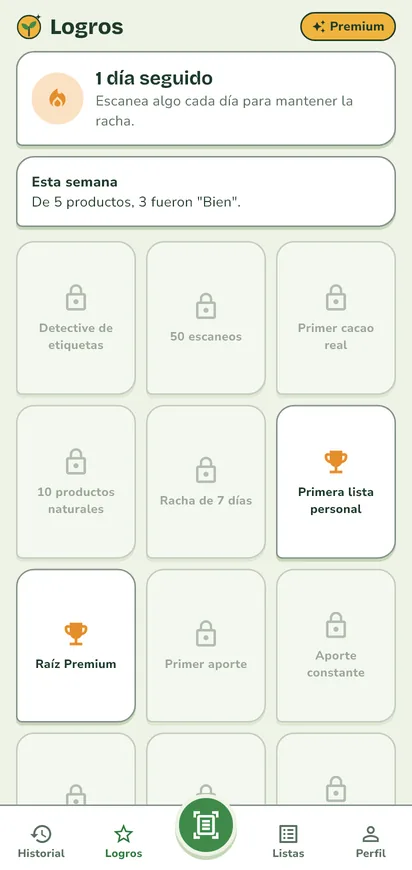
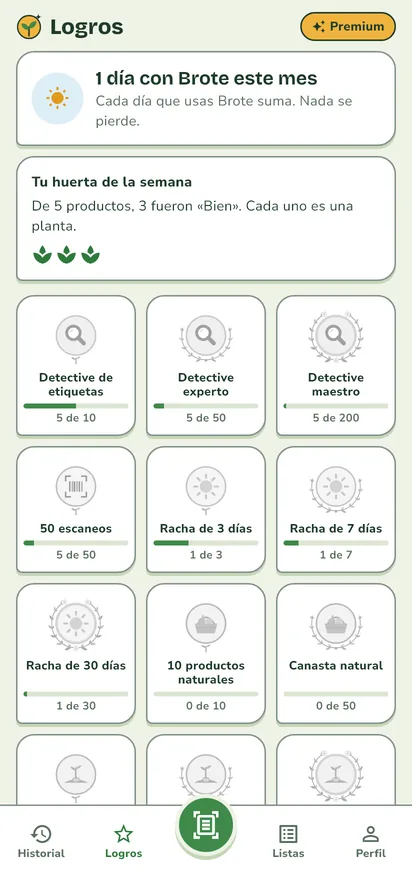
feat: logros sin culpa con insignias que crecen y se comparten (1.0.15)
- Logros por familias con niveles que son etapas de la planta (brote, hojas,
  flor); cada familia con emblema y color propios, dibujados en código.
- Compartir un logro: imagen 1080 px con la insignia, un «¿Sabías que…?» al
  azar (310 datos con fuente en assets/sabias_que.json), frase que promociona
  Brote y link al sitio. Compartir da la «Medalla de medallas», que no se
  comparte.
- Logros nuevos: siembra, curiosidad, mesa familiar y sorpresas (un solo
  ingrediente, libre de sellos).
- Días con Brote del mes como cifra principal; la racha perdona un día de
  descanso por semana. Bloqueados con avance. Huerta de la semana.
- Celebración proporcional e interruptor «Logros y celebraciones» en Perfil.
- «Tu año con Brote» en diciembre y enero.
- Ayuda y novedades actualizadas.

Changed region(s): [[0.0291, 0.1862, 0.9612, 0.931], [0.233, 0.0621, 0.8447, 0.1552], [0.0583, 0.0621, 0.2039, 0.1552]]

diff --git a/ayuda/home-1.html b/ayuda/home-1.html
@@ -4,7 +4,7 @@
 <meta charset="utf-8">
 <meta name="viewport" content="width=device-width, initial-scale=1, viewport-fit=cover">
 <title>Logros · Ayuda de Brote</title>
-<meta name="description" content="Tu racha de días escaneando y lo que has descubierto esta semana. Escanea algo cada día para mantener la racha.">
+<meta name="description" content="Tus días con Brote este mes, tu huerta de la semana y tus insignias. Nada se pierde: lo que llevas solo crece. Toca un logro ganado para compartirlo.">
 <meta name="theme-color" content="#EEF3E6">
 <link rel="icon" type="image/png" href="../img/favicon-32.png">
 <link rel="preconnect" href="https://fonts.googleapis.com">
@@ -69,17 +69,25 @@
     <article>
       <p class="eyebrow">Ayuda · Inicio</p>
       <h1>Logros</h1>
-      <p class="lead">Tu racha de días escaneando y lo que has descubierto esta semana. Escanea algo cada día para mantener la racha.</p>
+      <p class="lead">Tus días con Brote este mes, tu huerta de la semana y tus insignias. Nada se pierde: lo que llevas solo crece. Toca un logro ganado para compartirlo.</p>
 <h2>Qué ves</h2>
 <ul>
-  <li>Tu racha: cuántos días seguidos llevas escaneando algo.</li>
-  <li>«Esta semana»: cuántos productos escaneaste y cuántos fueron «Bien».</li>
-  <li>Tus logros: los ganados tienen un trofeo y los que faltan, un candado.</li>
+  <li>Cuántos días usaste Brote este mes. Esa cifra solo crece: nada se pierde. Si llevas varios días seguidos, también ves tu racha, y un día de descanso por semana no la corta.</li>
+  <li>«Tu huerta de la semana»: una planta por cada producto «Bien» que escaneaste.</li>
+  <li>Tus insignias. Cada familia tiene su dibujo y crece con el nivel: <b>brote</b>, <b>hojas</b> y <b>flor</b>. Las que faltan se ven en gris, con cuánto llevas.</li>
+  <li>Algunos logros son sorpresa: aparecen recién cuando los ganas.</li>
+  <li>En diciembre y enero, «Tu año con Brote»: lo que revisaste y aprendiste en el año.</li>
 </ul>
 <h2>Qué puedes hacer</h2>
 <ul>
-  <li>Mantén presionado un logro para ver cómo se gana.</li>
-  <li>Escanea algo cada día para que la racha no se corte.</li>
+  <li>Toca un logro ganado para verlo y compartirlo. Se arma una imagen con la insignia, un «¿Sabías que…?» al azar con su fuente y una invitación a usar Brote. «Otro dato» cambia el dato.</li>
+  <li>Toca uno que falta para ver cómo se gana y cuánto llevas.</li>
+</ul>
+<h2>Bueno saber</h2>
+<ul>
+  <li>Al compartir solo sale el logro: nunca tus listas, alérgenos ni datos de la familia.</li>
+  <li>Por compartir medallas también damos una medalla. Esa no se puede compartir.</li>
+  <li>¿Prefieres sin avisos? En Perfil, apaga «Logros y celebraciones». Tus logros se siguen guardando.</li>
 </ul>
       <a class="back" href="./">← Todas las pantallas</a>
     </article>

diff --git a/novedades.html b/novedades.html
@@ -184,6 +184,22 @@
     <p class="lead">Brote crece con lo que nos cuentan quienes la usan. Aquí va lo que cambia en cada versión, contado en simple.</p>
     <p>Las versiones llegan primero a una prueba interna y después a los testers. <a href="probar.html">¿Quieres probarla tú también?</a></p>
     <ol class="rel">
+      <li id="v1.0.15">
+        <header>
+          <h2>Logros que crecen contigo, para compartir</h2>
+          <span class="ver">Versión 1.0.15</span>
+          <time>22 de noviembre</time>
+          <span class="stage">En prueba interna</span>
+        </header>
+        <ul>
+          <li>Cada logro tiene su propia insignia, y crece con el nivel: brote, hojas y flor.</li>
+          <li>Toca un logro ganado para compartirlo: se arma una imagen con tu insignia y un «¿Sabías que…?» sobre alimentos, con su fuente. Hay más de 300 datos.</li>
+          <li>Logros nuevos: siembra (productos que sumas al catálogo con una foto), curiosidad (ingredientes que aprendes), mesa familiar y algunas sorpresas.</li>
+          <li>Ahora se cuentan los días con Brote del mes, que solo crecen. La racha perdona un día de descanso por semana.</li>
+          <li>Los logros que faltan muestran cuánto llevas.</li>
+          <li>¿Prefieres sin avisos? En Perfil puedes apagar «Logros y celebraciones».</li>
+        </ul>
+      </li>
       <li id="v1.0.14">
         <header>
           <h2>Foto del frente y lista de ingredientes ordenada</h2>

diff --git a/ayuda/home-3.html b/ayuda/home-3.html
@@ -73,12 +73,13 @@
 <h2>Qué ves</h2>
 <ul>
   <li>Una tarjeta por integrante, con sus dietas y alergias. El elegido dice «Activo».</li>
-  <li>Ajustes: modo senior, tema (Claro, Oscuro o Sistema), fotos de etiquetas guardadas y registro de alimentos.</li>
+  <li>Ajustes: modo senior, «Logros y celebraciones», tema (Claro, Oscuro o Sistema), fotos de etiquetas guardadas y registro de alimentos.</li>
   <li>Enlaces a «Cómo calificamos», «Aviso de uso» y «Acerca de Brote».</li>
 </ul>
 <h2>Qué puedes hacer</h2>
 <ul>
   <li>Toca un integrante para editarlo, o «Usar» para elegirlo como activo.</li>
+  <li>Apaga «Logros y celebraciones» si no quieres avisos al ganar un logro. Tus logros se siguen guardando.</li>
   <li>«Borrar ya las revisadas» libera espacio con las fotos de etiquetas que ya se revisaron.</li>
   <li>«Actualizar ahora» trae los productos nuevos que registró la comunidad (necesita internet).</li>
 </ul>
